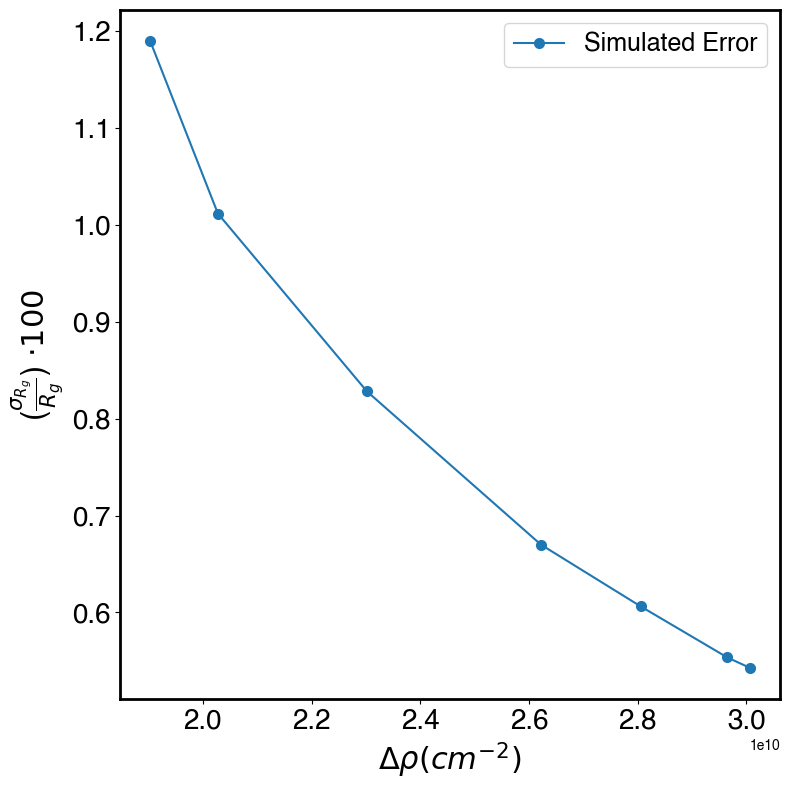
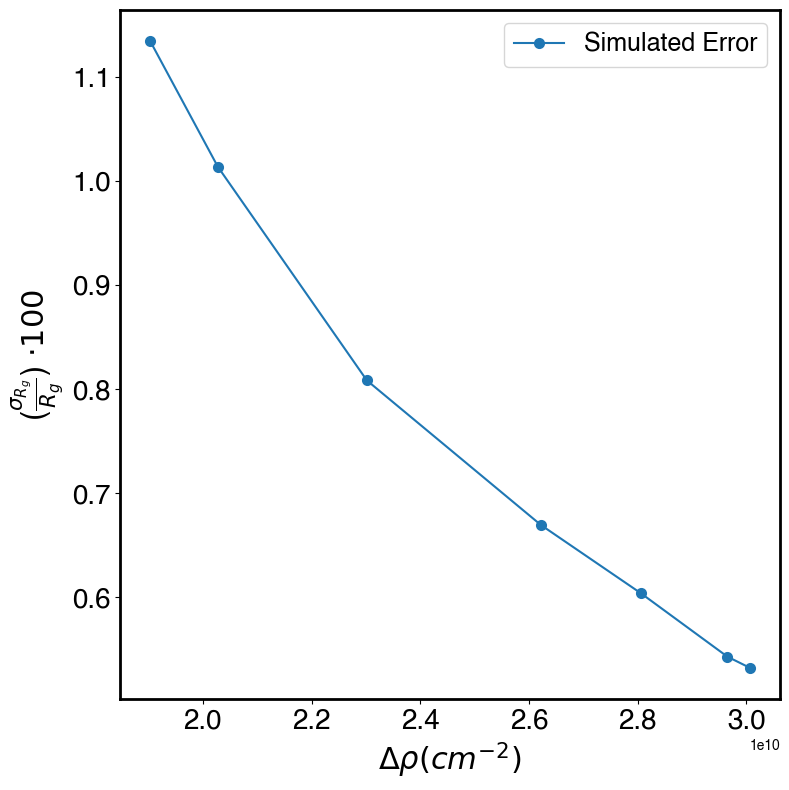
I fixed the error calculations button. It was NOT updating conc, mw, or exposure time each time it was called but that is FIXED. A new issue developed, quit command does NOT work after calling the error calculations. Not sure what is going on yet but I shall figure it out

diff --git a/SAXSProf_ErrCalcs.py b/SAXSProf_ErrCalcs.py
@@ -14,8 +14,10 @@ class err_Calcs:
         print('err_Calcs class was called.')
         print ("--------------")
         self.saxs1 = saxs1
-        # self.c = c
+        # self.c = conc.get()
         self.c = saxs1.c
+        self.mw = saxs1.mw
+        self.t = saxs1.t
         self.synth_buf = synth_buf
         self.MT_cell = MT_cell
 
@@ -33,7 +35,7 @@ class err_Calcs:
         self.buf_cell = buf_cell
 
         # calculate synthetic curve on buf_model profile generated by simulate_buf
-        I_no_noise = saxs1.I_of_q(self.c, saxs1.mw, saxs1.buf_model_q)
+        I_no_noise = saxs1.I_of_q(saxs1.c, saxs1.mw, saxs1.buf_model_q)
 
         # calculate noisy profile on mask_q points that fall within both buf's q range and the specified default_q range (mask_q_short)
         I_w_noise = saxs1.t * saxs1.pixel_size ** 2 * saxs1.with_noise(saxs1.t, saxs1.buf_model_q, I_no_noise)
@@ -95,10 +97,10 @@ class err_Calcs:
         if imin == [] and imax == [] and density == [] and pressure == []:
             # Input general parameters #
             saxs1 = self.saxs1
-            c = self.saxs1.c # use default conc.
+            c = self.c # use default conc.
             pp = self.saxs1.pp
-            mw = self.saxs1.mw # default molecular weight
-            t = self.saxs1.t # default exposure time
+            mw = self.mw # default molecular weight
+            t = self.t # default exposure time
             pixel_size = self.saxs1.pixel_size
             q = self.saxs1.buf_model_q
             density = [0.99707, 1.0015, 1.0184, 1.0379, 1.0719, 1.1010, 1.1142]

diff --git a/PythonGUI_TestFrame.py b/PythonGUI_TestFrame.py
@@ -162,7 +162,7 @@ def gen_simulation():
 	return energy, saxs1
 
 # Associated Button
-Generate = Button(root, text="Generate", width = 30, height = 2, bg = 'lightblue', command =gen_simulation).place(x=320, y=470)
+Generate = Button(root, text="Generate SAXS Curve", width = 30, height = 2, bg = 'lightblue', command =gen_simulation).place(x=320, y=470)
 
 def err_calcs():
 

diff --git a/README.md b/README.md
@@ -1,5 +1,5 @@
 # SAXProf
-This is a stripped-down SAXSProf example that was used to create the web version of SAXSProf.
+This is a stripped-down SAXSProf example that was used to create the web version of SAXSProf and has been repurposed for a desktop GUI and more advanced error calculations for SAXS curves at high pressure.
 
 ## Running
 1. install a python environment that contains matplotlib etc. I use Enthought's academic distribution, but others should work.
@@ -50,3 +50,11 @@ This class calculates the error in Rg as determined by the Guiner fit as is outl
 This allows for comparison of the Rg error from an analytical model (i.e. we know where the error comes from) and the error produced by many fitting routines
 such as RAW or primus.
 Furthermore, this allowed for us to model the error in Rg as a function of concentration and pressure (contrast), which is also outlined in the *_Formula.pdf file.
+
+## Running Desktop GUI
+
+Ensure you have Python3 installed locally as well as the following Python modules:
+(1) Matplotlib
+(2) tkinter
+(3) numpy
+(4) scipy
